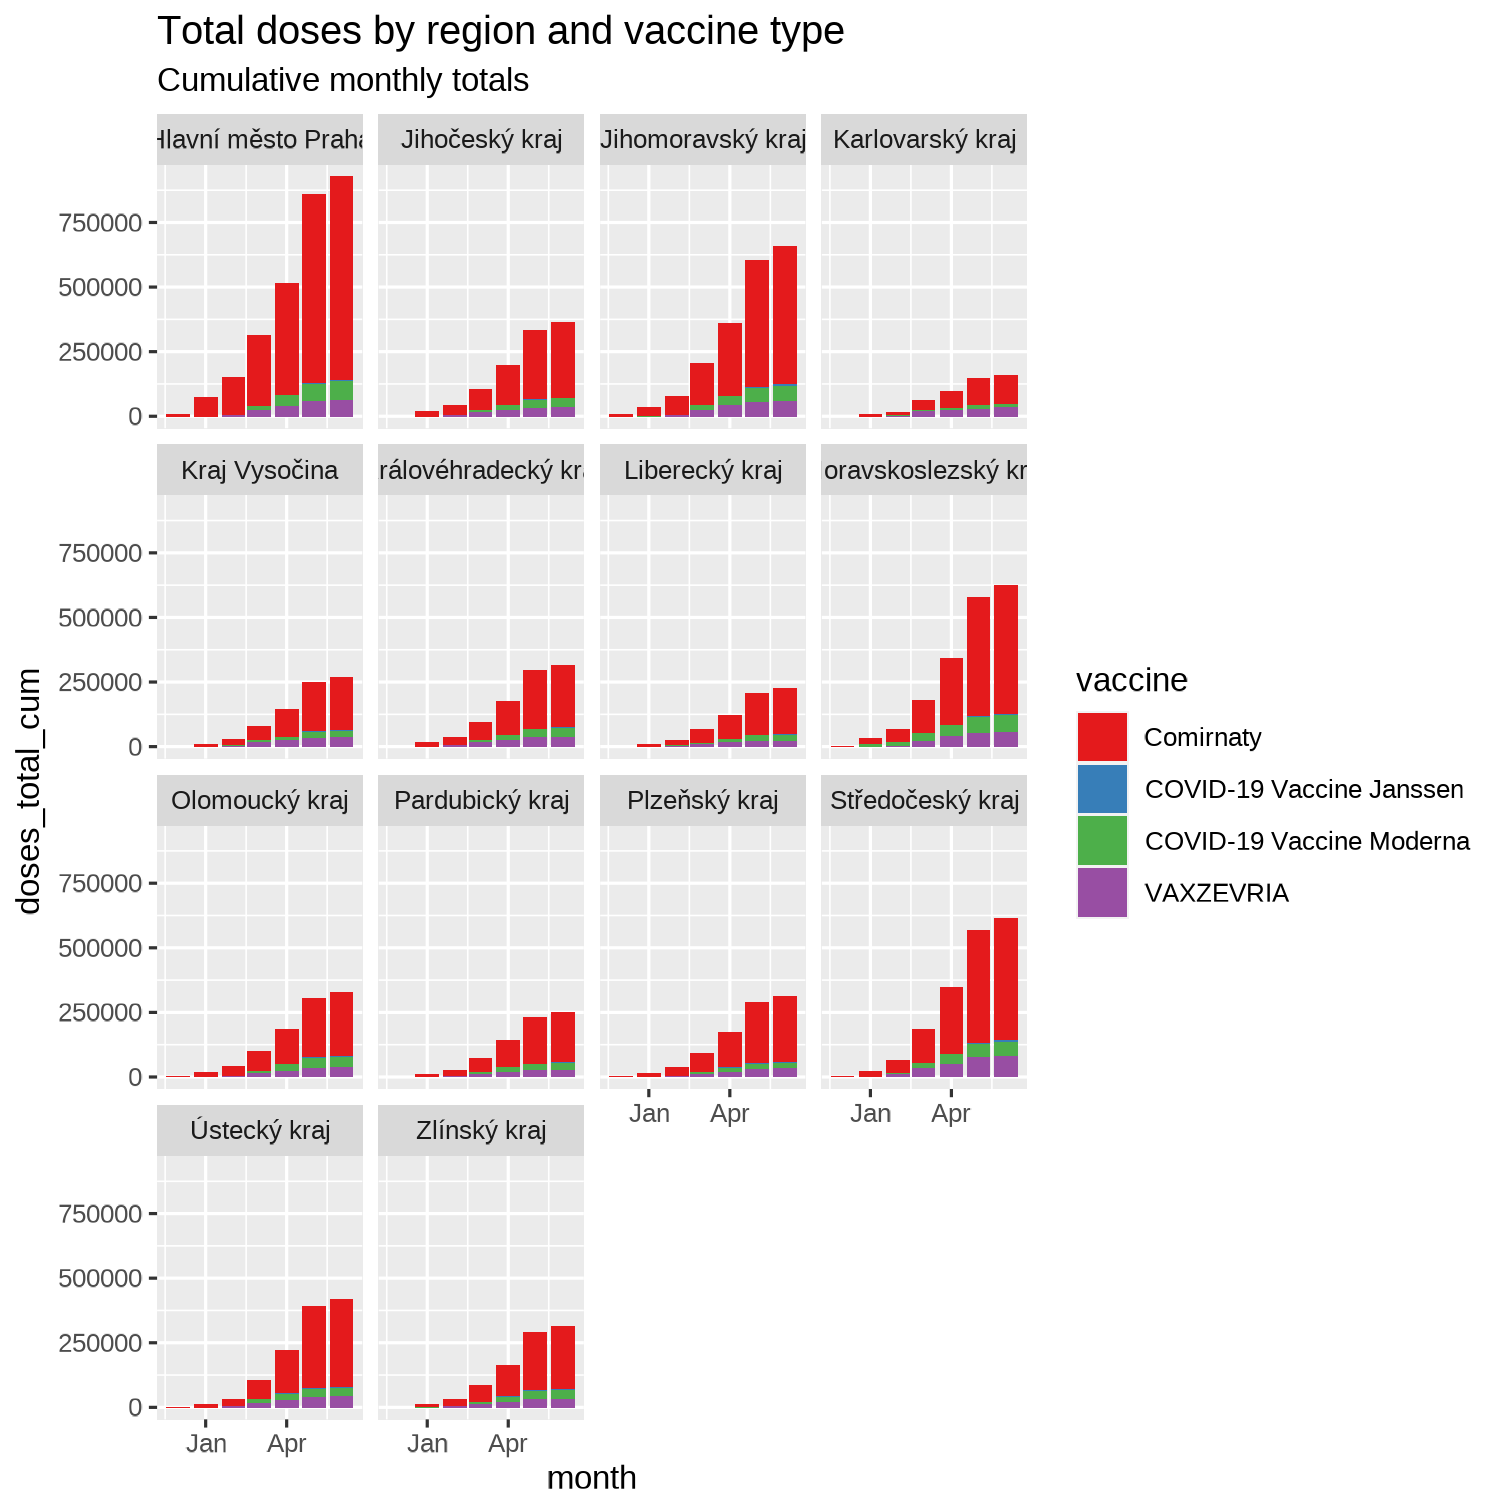
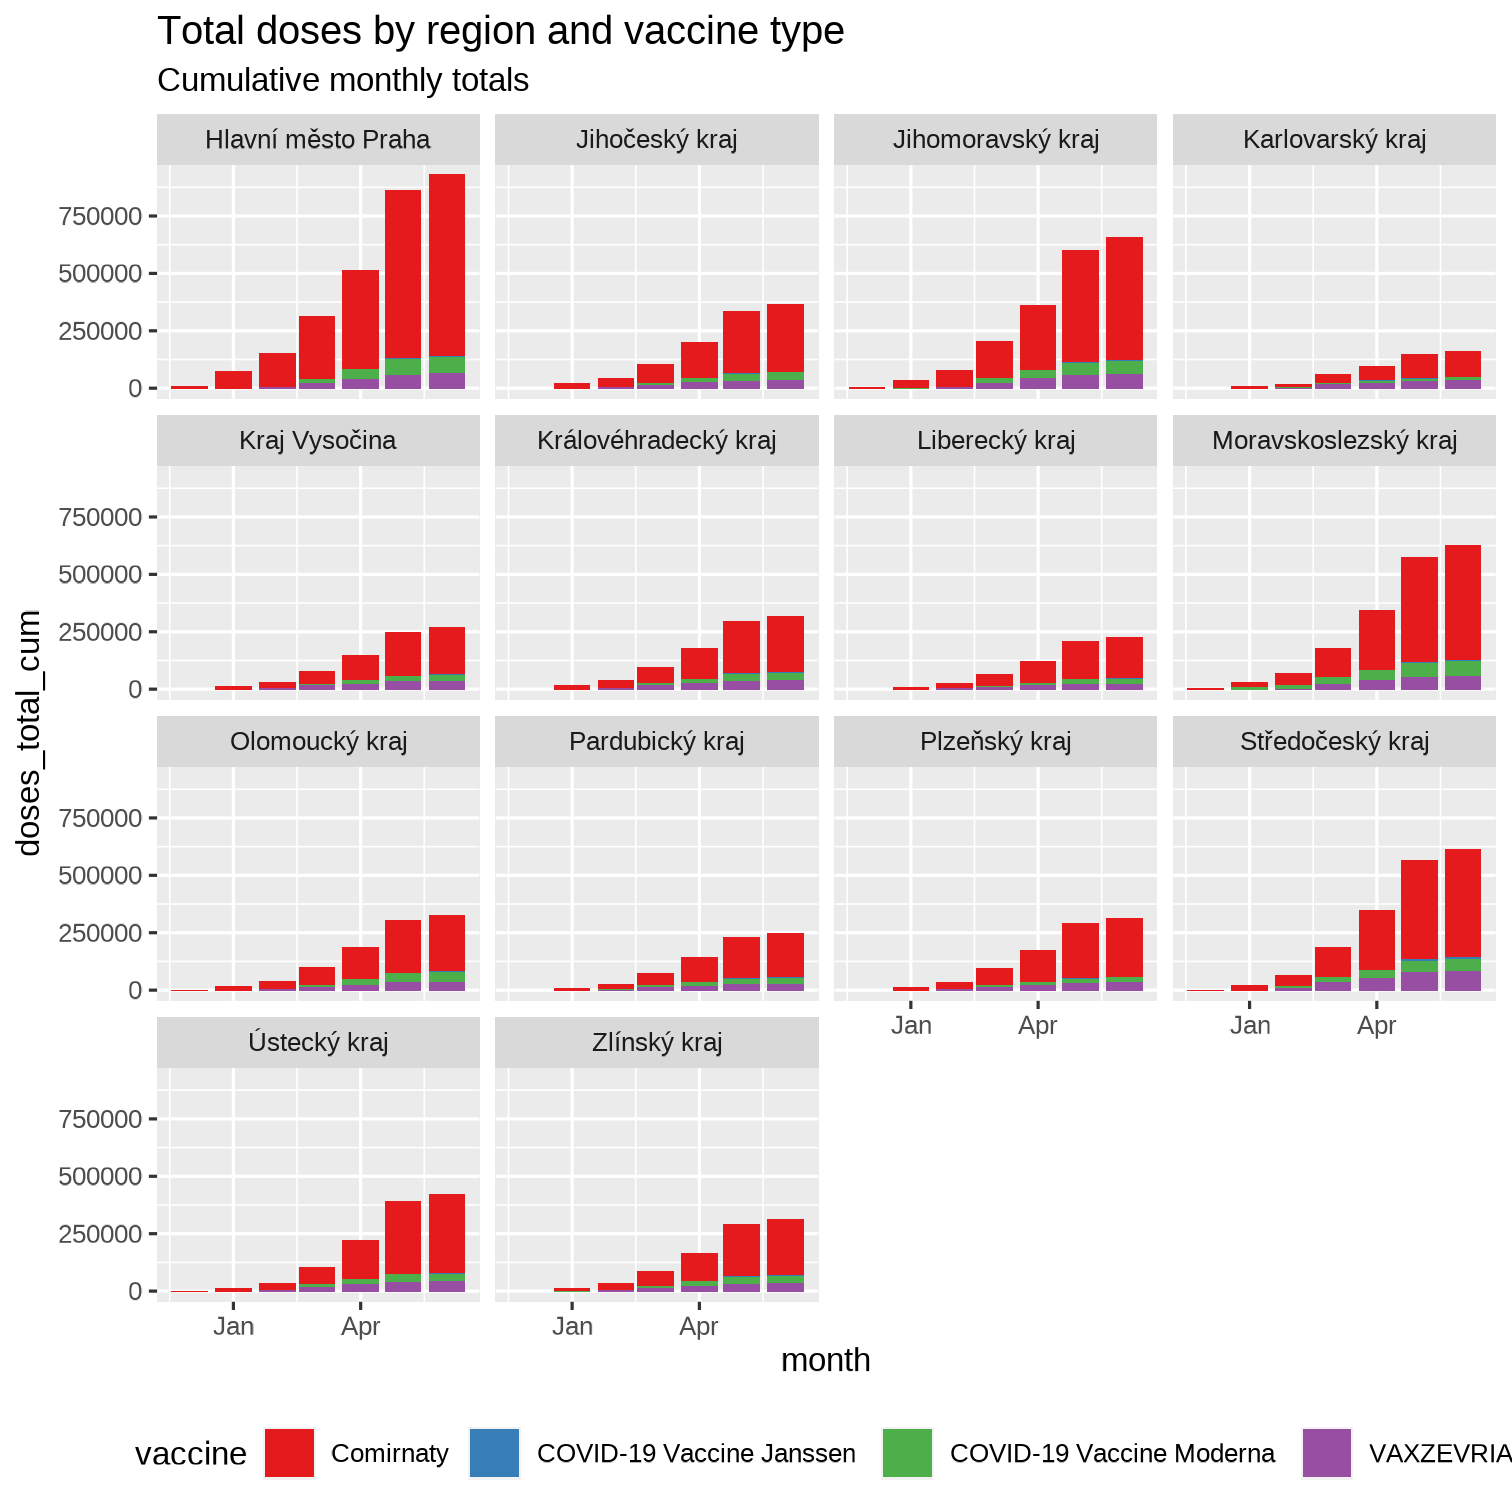
refix breaks

diff --git a/docs/slides/index.html b/docs/slides/index.html
@@ -1127,7 +1127,7 @@ count: false
 ggplot(data = vd_reg_month,
 ) +
   labs(title = "Total doses by region and vaccine type",
-       subtitle = "Cumulative monthly totals") +  # BREAK7
+       subtitle = "Cumulative monthly totals") +
   theme(
   )
 ```
@@ -1148,7 +1148,7 @@ ggplot(data = vd_reg_month,
 *      mapping = aes(x = month, y = doses_total_cum)
 ) +
   labs(title = "Total doses by region and vaccine type",
-       subtitle = "Cumulative monthly totals") +  # BREAK7
+       subtitle = "Cumulative monthly totals") +
   theme(
   )
 ```
@@ -1171,7 +1171,7 @@ ggplot(data = vd_reg_month,
 * geom_col(
 * ) +
   labs(title = "Total doses by region and vaccine type",
-       subtitle = "Cumulative monthly totals") +  # BREAK7
+       subtitle = "Cumulative monthly totals") +
   theme(
   )
 ```
@@ -1195,7 +1195,7 @@ ggplot(data = vd_reg_month,
 *   aes(fill = vaccine)
   ) +
   labs(title = "Total doses by region and vaccine type",
-       subtitle = "Cumulative monthly totals") +  # BREAK7
+       subtitle = "Cumulative monthly totals") +
   theme(
   )
 ```
@@ -1220,7 +1220,7 @@ ggplot(data = vd_reg_month,
   ) +
 * facet_wrap(vars(nuts3_name)) +
   labs(title = "Total doses by region and vaccine type",
-       subtitle = "Cumulative monthly totals") +  # BREAK7
+       subtitle = "Cumulative monthly totals") +
   theme(
   )
 ```
@@ -1246,7 +1246,7 @@ ggplot(data = vd_reg_month,
   facet_wrap(vars(nuts3_name)) +
 * scale_fill_brewer(palette = "Set1") +
   labs(title = "Total doses by region and vaccine type",
-       subtitle = "Cumulative monthly totals") +  # BREAK7
+       subtitle = "Cumulative monthly totals") +
   theme(
   )
 ```
@@ -1272,33 +1272,7 @@ ggplot(data = vd_reg_month,
   facet_wrap(vars(nuts3_name)) +
   scale_fill_brewer(palette = "Set1") +
   labs(title = "Total doses by region and vaccine type",
-       subtitle = "Cumulative monthly totals") +  # BREAK7
-  theme(
-  )
-```
-]
- 
-.panel2-ggplot2-example-non_seq[
-&lt;img src="index_files/figure-html/ggplot2-example_non_seq_07_output-1.png" width="504" /&gt;
-]
-
----
-count: false
- 
-
-.panel1-ggplot2-example-non_seq[
-
-```r
-ggplot(data = vd_reg_month,
-       mapping = aes(x = month, y = doses_total_cum)
-) +
-  geom_col(
-    aes(fill = vaccine)
-  ) +
-  facet_wrap(vars(nuts3_name)) +
-  scale_fill_brewer(palette = "Set1") +
-  labs(title = "Total doses by region and vaccine type",
-       subtitle = "Cumulative monthly totals") +  # BREAK7
+       subtitle = "Cumulative monthly totals") +
   theme(
 *       legend.position = "bottom"
   )
@@ -1306,7 +1280,7 @@ ggplot(data = vd_reg_month,
 ]
  
 .panel2-ggplot2-example-non_seq[
-&lt;img src="index_files/figure-html/ggplot2-example_non_seq_08_output-1.png" width="504" /&gt;
+&lt;img src="index_files/figure-html/ggplot2-example_non_seq_07_output-1.png" width="504" /&gt;
 ]
 
 &lt;style&gt;
